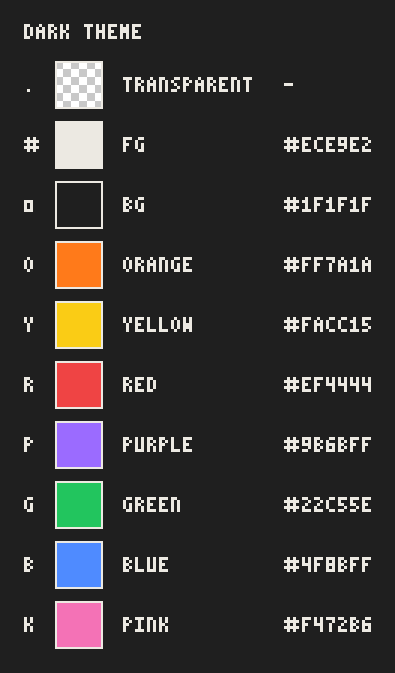
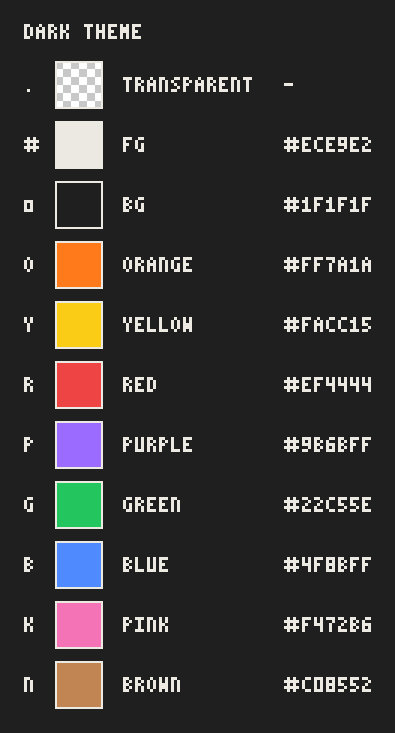
UI: item grade colours: A is green, B is blue (#66)
The tier frame sprites and the CSS tier colours agreed on B blue / A purple
(sprite) and B green / A blue (CSS). Both now use B blue, A green.
Regenerated docs/COLORS.md and its images.

diff --git a/src/sprites/gear.ts b/src/sprites/gear.ts
@@ -8,7 +8,7 @@ import type { Point, SpriteDef } from './types';
 // the icon keeps them from merging. The S sparkles sit in that gap and in
 // the icon's empty corners, so they show around any icon.
 //
-// Colours are existing palette slots for now: C fg, B blue, A purple,
+// Colours are existing palette slots for now: C fg, B blue, A green,
 // S yellow + orange. The palette task picks the final rarity colours.
 
 export type ItemTier = 'C' | 'B' | 'A' | 'S';
@@ -117,29 +117,29 @@ export const itemFrameB: SpriteDef = {
   ],
 };
 
-/** Tier A frame: purple outline, corner brackets, gold studs on each side. */
+/** Tier A frame: green outline, corner brackets, gold studs on each side. */
 export const itemFrameA: SpriteDef = {
   name: 'item-frame-a',
   width: 16,
   height: 16,
   frames: [
     [
-      '.PPPPPPYYPPPPPP.',
-      'PPP..........PPP',
-      'PP............PP',
-      'P..............P',
-      'P..............P',
-      'P..............P',
-      'P..............P',
+      '.GGGGGGYYGGGGGG.',
+      'GGG..........GGG',
+      'GG............GG',
+      'G..............G',
+      'G..............G',
+      'G..............G',
+      'G..............G',
       'Y..............Y',
       'Y..............Y',
-      'P..............P',
-      'P..............P',
-      'P..............P',
-      'P..............P',
-      'PP............PP',
-      'PPP..........PPP',
-      '.PPPPPPYYPPPPPP.',
+      'G..............G',
+      'G..............G',
+      'G..............G',
+      'G..............G',
+      'GG............GG',
+      'GGG..........GGG',
+      '.GGGGGGYYGGGGGG.',
     ],
   ],
 };

diff --git a/src/ui/gear.ts b/src/ui/gear.ts
@@ -14,8 +14,8 @@ import { createShow, setFlag } from './dom';
 export const GEAR_STYLES = `
 .tier { --_tier: var(--_fg); flex: none; display: grid; place-items: center; width: 40px; height: 40px; border: 3px solid var(--_tier); position: relative; }
 .tier img { width: 24px; height: 24px; }
-.tc-B { --_tier: var(--_green); }
-.tc-A { --_tier: var(--_blue); }
+.tc-B { --_tier: var(--_blue); }
+.tc-A { --_tier: var(--_green); }
 .tc-S { --_tier: var(--_yellow); }
 .tier.tc-S { box-shadow: 0 0 6px 1px var(--_yellow); }
 .tier.tc-S::after { content: '✦'; position: absolute; top: -10px; right: -8px; color: var(--_yellow); font-size: 12px; animation: afk-sparkle 0.9s steps(2) infinite; }

diff --git a/docs/COLORS.md b/docs/COLORS.md
@@ -51,25 +51,27 @@ _Generated by `npm run colors-doc` from `src/theme.ts`, `src/render/sprites.ts` 
 | `.` | transparent | - | - | Background around the sprite. | 60 |
 | `#` | fg | ![light fg](images/colors/chip-light-fg.png) `#1f1f1f` | ![dark fg](images/colors/chip-dark-fg.png) `#ece9e2` | Ink: bodies, coats, outlines. UI text, borders, HP bar frame, damage numbers on the mob. | 55 |
 | `o` | bg | ![light bg](images/colors/chip-light-bg.png) `#ece9e2` | ![dark bg](images/colors/chip-dark-bg.png) `#1f1f1f` | Cut-outs inside a silhouette (eyes, hand, folds), outlines that separate ink from ink. Canvas and UI background. | 38 |
-| `O` | orange | ![light orange](images/colors/chip-light-orange.png) `#ff6b00` | ![dark orange](images/colors/chip-dark-orange.png) `#ff7a1a` | Accents. Coin pick-up numbers (`+12`). | 17 |
+| `O` | orange | ![light orange](images/colors/chip-light-orange.png) `#ff6b00` | ![dark orange](images/colors/chip-dark-orange.png) `#ff7a1a` | Accents. Coin pick-up numbers (`+12`). | 11 |
 | `Y` | yellow | ![light yellow](images/colors/chip-light-yellow.png) `#eab308` | ![dark yellow](images/colors/chip-dark-yellow.png) `#facc15` | Gold, buttons, buckles. Prices in the shop, S-tier item frame and sparkle. | 12 |
 | `R` | red | ![light red](images/colors/chip-light-red.png) `#dc2626` | ![dark red](images/colors/chip-dark-red.png) `#ef4444` | Eyes, scarf, blood. Hit flash (whole sprite), damage taken by the hero, low HP bar, error text. | 20 |
-| `P` | purple | ![light purple](images/colors/chip-light-purple.png) `#7c3aed` | ![dark purple](images/colors/chip-dark-purple.png) `#9b6bff` | Accents. Stage label (canvas and HUD) on boss stages. | 2 |
-| `G` | green | ![light green](images/colors/chip-light-green.png) `#16a34a` | ![dark green](images/colors/chip-dark-green.png) `#22c55e` | Leaves, stems. HP bar, B-tier item frame, "on" tags, debug OK text. | 8 |
+| `P` | purple | ![light purple](images/colors/chip-light-purple.png) `#7c3aed` | ![dark purple](images/colors/chip-dark-purple.png) `#9b6bff` | Accents. Stage label (canvas and HUD) on boss stages. | 1 |
+| `G` | green | ![light green](images/colors/chip-light-green.png) `#16a34a` | ![dark green](images/colors/chip-dark-green.png) `#22c55e` | Leaves, stems. HP bar, B-tier item frame, "on" tags, debug OK text. | 9 |
 | `B` | blue | ![light blue](images/colors/chip-light-blue.png) `#2563eb` | ![dark blue](images/colors/chip-dark-blue.png) `#4f8bff` | Accents. Crow damage numbers, A-tier item frame. | 9 |
 | `K` | pink | ![light pink](images/colors/chip-light-pink.png) `#db2777` | ![dark pink](images/colors/chip-dark-pink.png) `#f472b6` | Accents. | 2 |
+| `N` | brown | ![light brown](images/colors/chip-light-brown.png) `#8b5a2b` | ![dark brown](images/colors/chip-dark-brown.png) `#c08552` | _Not described yet: add it to `USED_FOR` in `scripts/colors-doc.ts`._ | 6 |
 
 ### Which sprites use each slot
 
 - **`#` fg** (55): `boss-mushroom-walk`, `crow-fly-back`, `crow-fly-out`, `crow-idle`, `crow-peck`, `effect-peck-spark`, `effect-slash-arc-gold-sword`, `effect-slash-arc-iron-sword`, `effect-slash-arc-stick`, `effect-slash-arc-stone-sword`, `effect-slash-arc-wooden-sword`, `hero-death`, `hero-hurt`, `hero-idle`, `hero-slash`, `icon-auto-advance`, `icon-crow`, `icon-damage`, `icon-music`, `icon-music-off`, `icon-sfx`, `icon-sfx-off`, `icon-speed`, `icon-weapon`, `item-frame-c`, `item-pendant`, `item-slot-empty`, `mob-chicken-walk`, `mob-flower-walk`, `mob-mushroom-walk`, `weapon-gold-sword-back`, `weapon-gold-sword-downFwd`, `weapon-gold-sword-fwd`, `weapon-gold-sword-up`, `weapon-gold-sword-upFwd`, `weapon-iron-sword-back`, `weapon-iron-sword-downFwd`, `weapon-iron-sword-fwd`, `weapon-iron-sword-up`, `weapon-iron-sword-upFwd`, `weapon-stick-back`, `weapon-stick-downFwd`, `weapon-stick-fwd`, `weapon-stick-up`, `weapon-stick-upFwd`, `weapon-stone-sword-back`, `weapon-stone-sword-downFwd`, `weapon-stone-sword-fwd`, `weapon-stone-sword-up`, `weapon-stone-sword-upFwd`, `weapon-wooden-sword-back`, `weapon-wooden-sword-downFwd`, `weapon-wooden-sword-fwd`, `weapon-wooden-sword-up`, `weapon-wooden-sword-upFwd`
 - **`o` bg** (38): `boss-mushroom-walk`, `crow-idle`, `effect-slash-arc-stone-sword`, `hero-death`, `hero-hurt`, `hero-idle`, `hero-slash`, `icon-crow`, `icon-music-off`, `icon-sfx-off`, `mob-chicken-walk`, `mob-flower-walk`, `mob-mushroom-walk`, `weapon-gold-sword-back`, `weapon-gold-sword-downFwd`, `weapon-gold-sword-fwd`, `weapon-gold-sword-up`, `weapon-gold-sword-upFwd`, `weapon-iron-sword-back`, `weapon-iron-sword-downFwd`, `weapon-iron-sword-fwd`, `weapon-iron-sword-up`, `weapon-iron-sword-upFwd`, `weapon-stick-back`, `weapon-stick-downFwd`, `weapon-stick-fwd`, `weapon-stick-up`, `weapon-stick-upFwd`, `weapon-stone-sword-back`, `weapon-stone-sword-downFwd`, `weapon-stone-sword-fwd`, `weapon-stone-sword-up`, `weapon-stone-sword-upFwd`, `weapon-wooden-sword-back`, `weapon-wooden-sword-downFwd`, `weapon-wooden-sword-fwd`, `weapon-wooden-sword-up`, `weapon-wooden-sword-upFwd`
-- **`O` orange** (17): `coin-spin`, `effect-slash-arc-gold-sword`, `effect-slash-arc-stick`, `effect-slash-arc-wooden-sword`, `item-frame-s`, `item-ring`, `mob-chicken-walk`, `weapon-gold-sword-back`, `weapon-gold-sword-downFwd`, `weapon-gold-sword-fwd`, `weapon-gold-sword-up`, `weapon-gold-sword-upFwd`, `weapon-wooden-sword-back`, `weapon-wooden-sword-downFwd`, `weapon-wooden-sword-fwd`, `weapon-wooden-sword-up`, `weapon-wooden-sword-upFwd`
+- **`O` orange** (11): `coin-spin`, `effect-slash-arc-gold-sword`, `effect-slash-arc-stick`, `item-frame-s`, `item-ring`, `mob-chicken-walk`, `weapon-gold-sword-back`, `weapon-gold-sword-downFwd`, `weapon-gold-sword-fwd`, `weapon-gold-sword-up`, `weapon-gold-sword-upFwd`
 - **`Y` yellow** (12): `coin-spin`, `effect-slash-arc-gold-sword`, `hero-hurt`, `item-frame-a`, `item-frame-s`, `item-pendant`, `item-ring`, `weapon-gold-sword-back`, `weapon-gold-sword-downFwd`, `weapon-gold-sword-fwd`, `weapon-gold-sword-up`, `weapon-gold-sword-upFwd`
 - **`R` red** (20): `boss-mushroom-walk`, `crow-fly-back`, `crow-fly-out`, `crow-idle`, `crow-peck`, `hero-death`, `hero-hurt`, `hero-idle`, `hero-slash`, `icon-crow`, `icon-damage`, `icon-music-off`, `icon-sfx-off`, `item-ring`, `mob-chicken-walk`, `weapon-gold-sword-back`, `weapon-gold-sword-downFwd`, `weapon-gold-sword-fwd`, `weapon-gold-sword-up`, `weapon-gold-sword-upFwd`
-- **`P` purple** (2): `boss-mushroom-walk`, `item-frame-a`
-- **`G` green** (8): `effect-slash-arc-stick`, `item-pendant`, `mob-flower-walk`, `weapon-stick-back`, `weapon-stick-downFwd`, `weapon-stick-fwd`, `weapon-stick-up`, `weapon-stick-upFwd`
+- **`P` purple** (1): `boss-mushroom-walk`
+- **`G` green** (9): `effect-slash-arc-stick`, `item-frame-a`, `item-pendant`, `mob-flower-walk`, `weapon-stick-back`, `weapon-stick-downFwd`, `weapon-stick-fwd`, `weapon-stick-up`, `weapon-stick-upFwd`
 - **`B` blue** (9): `effect-slash-arc-iron-sword`, `icon-speed`, `icon-weapon`, `item-frame-b`, `weapon-iron-sword-back`, `weapon-iron-sword-downFwd`, `weapon-iron-sword-fwd`, `weapon-iron-sword-up`, `weapon-iron-sword-upFwd`
 - **`K` pink** (2): `item-ring`, `mob-flower-walk`
+- **`N` brown** (6): `effect-slash-arc-wooden-sword`, `weapon-wooden-sword-back`, `weapon-wooden-sword-downFwd`, `weapon-wooden-sword-fwd`, `weapon-wooden-sword-up`, `weapon-wooden-sword-upFwd`
 
 <!-- colors-doc:end -->
 
